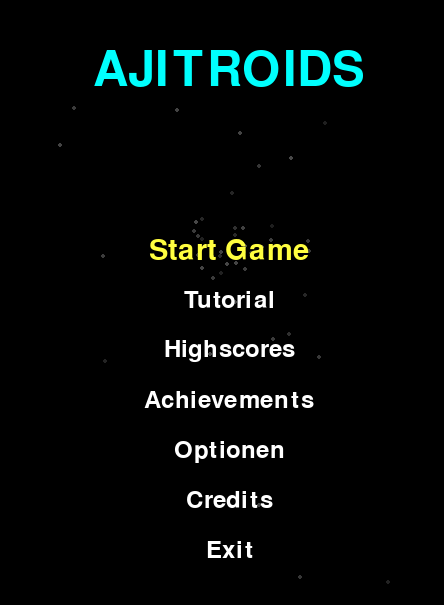
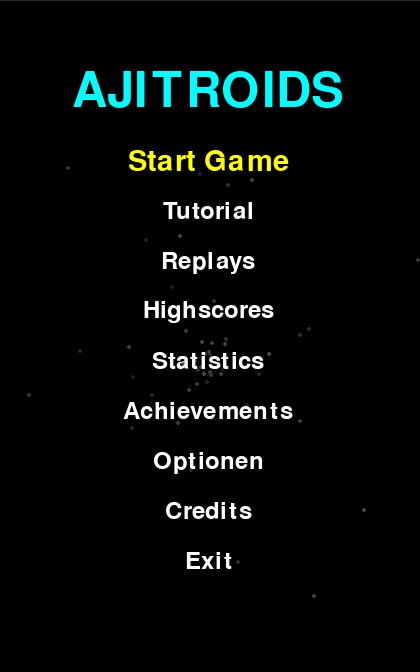
Fix: Update version to 0.21.3 and adjust AJITROIDS title position in menu

diff --git a/modul/menu.py b/modul/menu.py
@@ -1,11 +1,14 @@
 # flake8: noqa
+# pylint: disable=all
 # pyright: reportUndefinedVariable=false
 # pyright: reportWildcardImportFromLibrary=false
-from modul._version import __version__
+import math
+
 import pygame
+
+from modul._version import __version__
 from modul.constants import *
 from modul.ships import ship_manager, ShipRenderer
-import math
 
 sounds = None
 
@@ -156,7 +159,7 @@ class Menu:
         screen.blit(background, (0, 0))
 
         title_surf = self.title_font.render(self.title, True, pygame.Color(MENU_TITLE_COLOR))
-        title_rect = title_surf.get_rect(center=(SCREEN_WIDTH / 2, SCREEN_HEIGHT / 4))
+        title_rect = title_surf.get_rect(center=(SCREEN_WIDTH / 2, SCREEN_HEIGHT / 8))
         screen.blit(title_surf, title_rect)
 
         # Center items vertically so long lists still fit

diff --git a/modul/_version.py b/modul/_version.py
@@ -1,5 +1,6 @@
 # file generated by setuptools-scm
 # don't change, don't track in version control
+# pylint: disable=invalid-name,fixme
 
 __all__ = [
     "__version__",
@@ -28,7 +29,7 @@ version_tuple: VERSION_TUPLE
 commit_id: COMMIT_ID
 __commit_id__: COMMIT_ID
 
-__version__ = version = '0.21.2'
-__version_tuple__ = version_tuple = (0, 21, 2)
+__version__ = version = '0.21.3'
+__version_tuple__ = version_tuple = (0, 21, 3)
 
-__commit_id__ = commit_id = None
+__commit_id__ = commit_id = 'ga98d99ecc'
